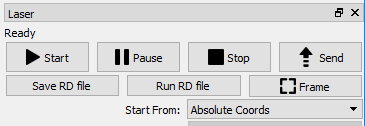
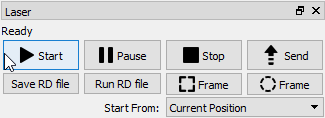
File List window contents, updated laser window graphics

diff --git a/Toolbars.md b/Toolbars.md
@@ -2,7 +2,7 @@
 <a name="Top"></a>
 ## Toolbars and Tool Windows
 
-The workspace has may toolbar and tool windows to make working with files fairly easy and intuitive. Right clicking on the top bar of the app will allow you to toggle toolbars on or off.
+The workspace has may toolbar and tool windows to make working with files fairly easy and intuitive. Right clicking on the top bar of the app will allow you to toggle toolbars on or off, as will using the 'Window' menu in the main menu bar.
 
 ![Toolbars](/img/Toolbars.PNG)
 
@@ -51,14 +51,20 @@ The Cuts tool window is where you will configure most of your job. It contains l
 * Double clicking a cut layer will launch the full settings editor for that layer
 * You can quickly select the Mode or set the layer Output and Hide options directly from the tool window
 * You can quickly set the basic operation parameters in the *Cut Info* section
-* Clicking the up or down arrows on the right side of the tool window will move the selected layer up or down in priority
+* Clicking the up or down arrows on the right side of the tool window will move the selected layer up or down in priority (as will editing the Priority value below)
 
 [Return to Top](#Top)
 
 <a name="filelist"></a>
 ### File List
 
-TODO: Content needed
+This is currently for Ruida controllers, but will be implemented for Smoothie controllers as well. This window lets you manage the files hosted on your controller, if it supports this.
+
+![FileListWindow](/img/FileListWindow.png)
+
+Hit the Refresh button to query your controller for the list of hosted files. You can select a file and press Start to cut it, Delete to remove it from the controller, or Download to save it locally. Pressing Upload will let you choose a local cut file to send to the controller (this is not the same as the current job, which you can upload with the "Send" button in the Laser window - see the [Machine Instructions](MachineInstructions.md) page for more details)
+
+
 
 [Return to Top](#Top)
 
@@ -69,9 +75,9 @@ The Laser tool window is used to interact with the connected device.
 
 ![Laser Tool Window](/img/LaserToolBox.PNG)
 
-This tool window provides most of the functions for interacting directly with your laser. The commands are covered in detail elsewhere in the documentation. 
+This tool window provides most of the functions for interacting directly with your laser. The commands are covered in detail elsewhere in the documentation.
 
-For a detailed explaination of the *Start From* options, see [Coordinates and Origin](CoordinatesOrigin.md)
+For a detailed explanation of the *Start From* options, see [Coordinates and Origin](CoordinatesOrigin.md)
 
 [Return to Top](#Top)
 
